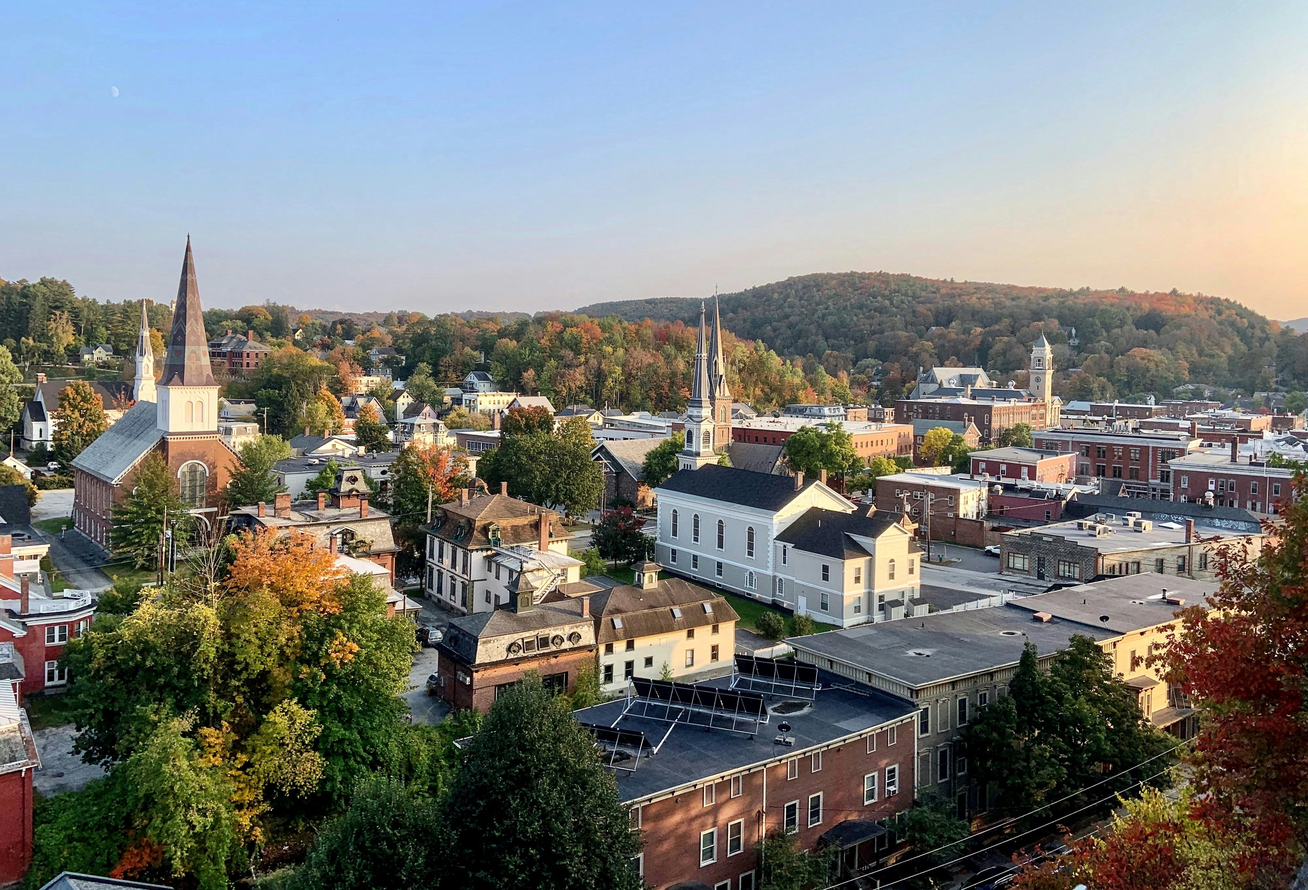
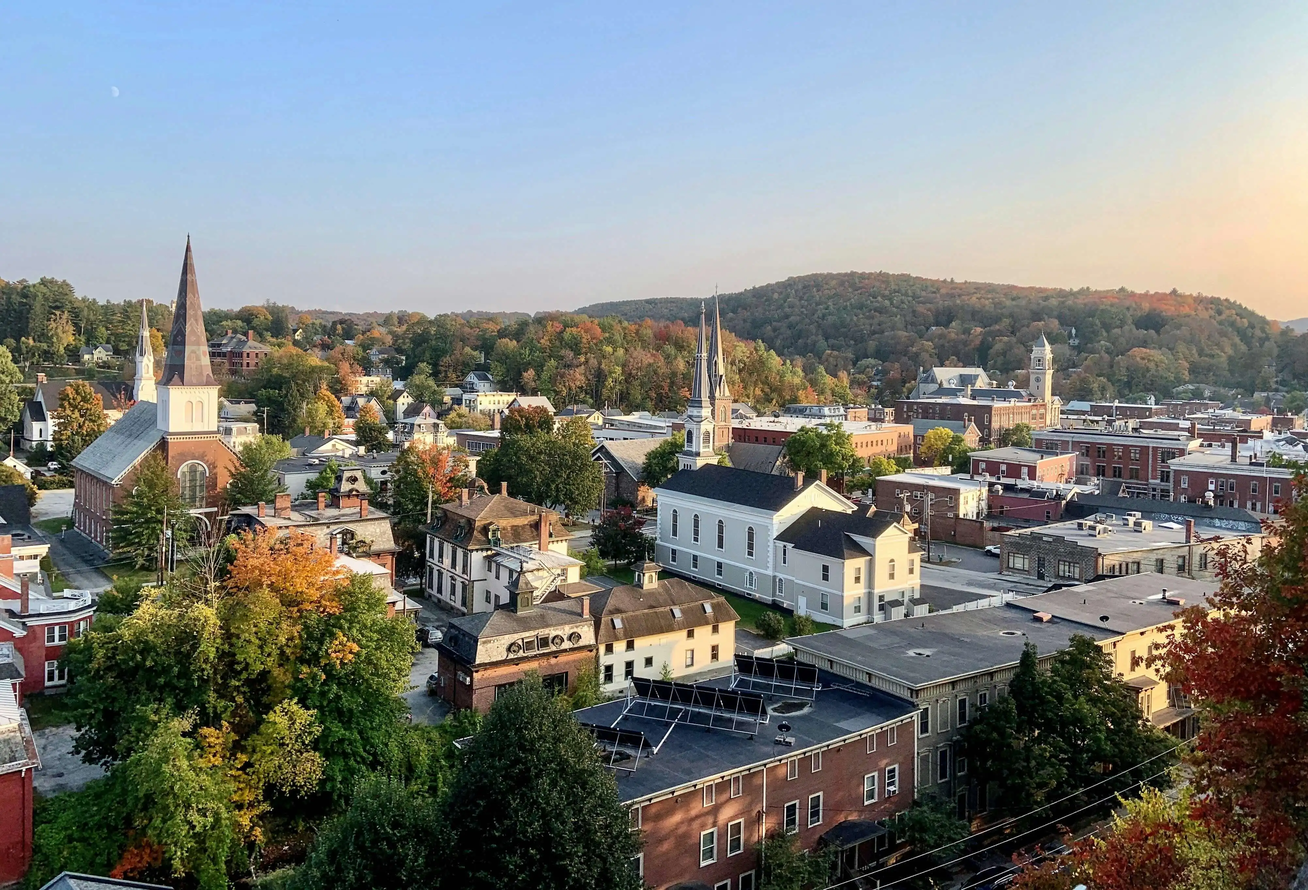
Optimized some images

diff --git a/src/index.html b/src/index.html
@@ -54,7 +54,7 @@ eleventyNavigation:
     <picture class="cs-background">
         <source media="(max-width: 600px)" srcset="/assets/images/Bareroots-2.webp">
         <source media="(min-width: 601px)" srcset="/assets/images/Bareroots-2.webp">
-        <img decoding="async" src="/assets/images/Bareroots-2.webp" alt="architect" width="2250" height="1500" aria-hidden="true">
+        <img decoding="async" src="/assets/images/Bareroots-2.webp" alt="Photo of Moxie" width="2250" height="1500" aria-hidden="true">
     </picture>
 </section>
 
@@ -73,8 +73,8 @@ eleventyNavigation:
                     <div class="blob-wrapper">
                         <div class="cs-picture">
                             <picture>
-                                <source media="(max-width: 600px)" srcset="/assets/images/Bareroots-3.jpg">
-                                <source media="(min-width: 601px)" srcset="/assets/images/Bareroots-3.jpg">
+                                <source media="(max-width: 600px)" srcset="/assets/images/clover.webp">
+                                <source media="(min-width: 601px)" srcset="/assets/images/clover.webp">
                                 <img decoding="async" src="/assets/images/Bareroots-3.jpg" alt="person" width="413" height="374" aria-hidden="true">
                             </picture>
                         </div>
